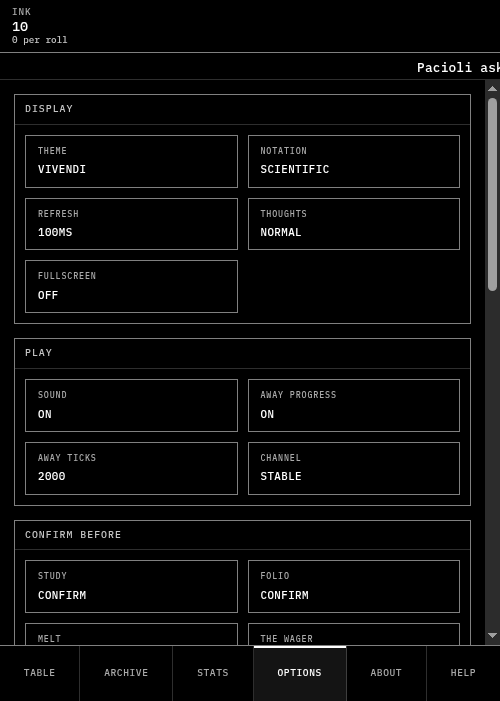
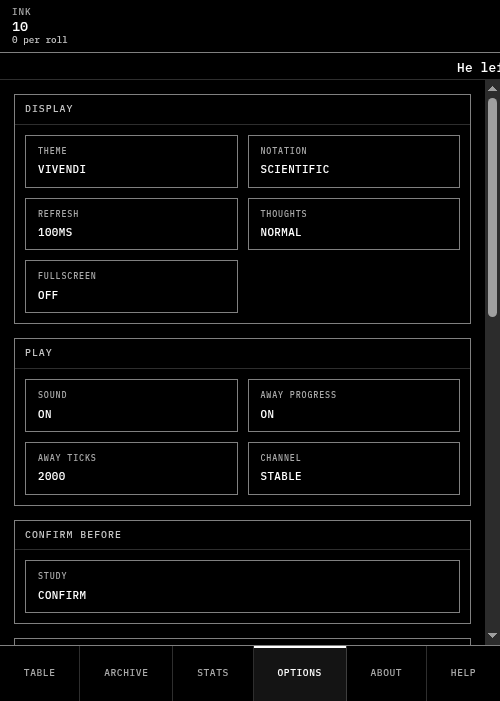
the settings screen stops naming what you have not met, and two geometry fixes
CONFIRM BEFORE listed all eight switches on a fresh save: folios, melting, the
Wager, challenges, chips and breaking the Wager. Six systems named on the
settings screen, sitting next to an archive and a help section that are gated
line by line. A setting for an action you cannot take is a spoiler wearing a
toggle.

Each one waits for the thing it guards now, on the same tests the help section
already uses. STUDY has none, because a study is on the table from the first
second. Hidden rather than disabled: a greyed-out switch still names its
action. test:spoilers checks the seven by name on a fresh save.

The Vesica Piscis was drawing sub-pixel lines. Its strokes scaled with the
viewBox, and it draws a 120 unit box into 74 CSS pixels, so its 1px circles
came out at 0.62px: thinner than every other line in a UI whose whole visual
rule is 1px borders. Both figures set vector-effect on the shapes themselves
now, and the two circles go from half opacity to 0.78 so they match the lens
they make.

And Metatron's Cube was clipped top and bottom. The figure is exactly ten radii
tall, because a centre sits four out along the vertical bearing and carries its
own circle on top of that, and it is only 8.93 wide since the widest centres
are at 4r*cos(30). The viewBox was ten radii square, so the top and bottom
circles landed on the edge and lost the outer half of their stroke to it. That
is why they read as chopped and thinner than the other eleven. A radius of
[…]

diff --git a/src/ui/options.ts b/src/ui/options.ts
@@ -20,6 +20,9 @@ import {
 } from '../durability'
 import { SLOT_COUNT, currentSlot, slotSummary } from '../save'
 import { CONFIRM_KEYS } from './confirm'
+import { WAGER_AT } from '../game/balance'
+import { isUnlocked } from '../game/autobuyers'
+import { WAGER_AUTOBUYER } from '../game/breaks'
 import { formatTime } from '../format'
 
 /**
@@ -94,8 +97,26 @@ function cycler<T>(
   }
 }
 
+/**
+ * When each confirmation is worth offering, which is when its action exists.
+ *
+ * The tests are the same ones the help section and the archive already use, so
+ * a switch appears on the screen at the moment the thing it guards does. STUDY
+ * has none because the study button is on the table from the first second.
+ */
+const CONFIRM_WHEN: Partial<Record<string, (s: GameState) => boolean>> = {
+  folio: (s) => s.folios > 0 || s.wagers > 0 || (s.stats.foliosEver ?? 0) > 0,
+  melt: (s) => (s.tarot?.death ?? 0) > 0,
+  wager: (s) => s.wagers > 0 || s.inkThisWager.gte(WAGER_AT.div(1e60)),
+  enterChallenge: (s) => s.wagers > 0,
+  exitChallenge: (s) => s.wagers > 0,
+  upgrade: (s) => s.wagers > 0,
+  break: (s) => s.broke || isUnlocked(s, WAGER_AUTOBUYER),
+}
+
 export function optionsPane(): Pane {
   const cycles: Cycle[] = []
+  const confirmGates: { root: HTMLElement; when: (s: GameState) => boolean }[] = []
   let fullCycle: Cycle
   let tickCycle: Cycle
   /** The last state update() saw, so paintTheme can resync outside the loop. */
@@ -206,14 +227,23 @@ export function optionsPane(): Pane {
 
       // Their own group, as they were their own section before. Every one of
       // them guards something that cannot be undone.
+      //
+      // And each one waits for the thing it guards. Eight switches on a fresh
+      // save named folios, melting, the Wager, challenges, chips and breaking
+      // the Wager: six systems a player ten minutes in has not met, listed on
+      // the settings screen where the archive and the help section are so
+      // carefully gated. A setting for an action you cannot take is a spoiler
+      // wearing a toggle.
       const ask = group('CONFIRM BEFORE')
       for (const c of CONFIRM_KEYS) {
-        ask(cycler(
+        const cycle = ask(cycler(
           c.label.toUpperCase(),
           [{ id: true, label: 'CONFIRM' }, { id: false, label: 'STRAIGHT' }],
           (s) => s.options.confirms[c.key] !== false,
           (on) => actions.setConfirm(c.key, on),
         ))
+        const when = CONFIRM_WHEN[c.key]
+        if (when) confirmGates.push({ root: cycle.root, when })
       }
 
       const save = el('div', 'section')
@@ -502,6 +532,9 @@ export function optionsPane(): Pane {
     update(s: GameState) {
       shown = s
       for (const c of cycles) c.sync(s)
+      // Hidden rather than disabled: a greyed-out switch still names its
+      // action.
+      for (const g of confirmGates) g.root.hidden = !g.when(s)
       // The tick count only means anything while away progress is on.
       tickCycle.root.disabled = !s.options.offline
     },

diff --git a/src/ui/geometry.ts b/src/ui/geometry.ts
@@ -23,6 +23,7 @@ function svg(view: number): SVGSVGElement {
 
 function line(a: [number, number], b: [number, number], opacity: number): SVGLineElement {
   const n = document.createElementNS(NS, 'line')
+  n.setAttribute('vector-effect', 'non-scaling-stroke')
   n.setAttribute('x1', a[0].toFixed(2))
   n.setAttribute('y1', a[1].toFixed(2))
   n.setAttribute('x2', b[0].toFixed(2))
@@ -34,6 +35,7 @@ function line(a: [number, number], b: [number, number], opacity: number): SVGLin
 
 function circle(c: [number, number], r: number, opacity: number): SVGCircleElement {
   const n = document.createElementNS(NS, 'circle')
+  n.setAttribute('vector-effect', 'non-scaling-stroke')
   n.setAttribute('cx', c[0].toFixed(2))
   n.setAttribute('cy', c[1].toFixed(2))
   n.setAttribute('r', r.toFixed(2))
@@ -70,8 +72,13 @@ export function metatron(size = 240): SVGSVGElement {
   const root = svg(size)
   root.classList.add('geo', 'geo-metatron')
   const mid = size / 2
-  // The figure spans four radii of centre offset plus one of circle, each way.
-  const r = size / 10
+  // The figure is ten radii tall: a centre sits four out along the vertical
+  // bearing and carries its own circle on top of that. It is only 8.93 wide,
+  // because the widest centres sit at 4r*cos(30). At r = size/10 the top and
+  // bottom circles landed exactly on the edge of the viewBox and lost the
+  // outer half of their stroke to it, which reads as chopped and thinner than
+  // the other eleven. A radius of size/11 leaves half a radius of air.
+  const r = size / 11
   const centres: [number, number][] = []
   for (const ring of [2, 4]) {
     for (let i = 0; i < 6; i++) {
@@ -154,10 +161,11 @@ export function vesica(w = 200): Vesica {
   root.appendChild(fill)
 
   for (const c of [left, right]) {
-    const n = circle(c, r, 0.5)
+    const n = circle(c, r, 0.78)
     root.appendChild(n)
   }
   const lens = document.createElementNS(NS, 'path')
+  lens.setAttribute('vector-effect', 'non-scaling-stroke')
   lens.setAttribute('d', lensPath)
   lens.setAttribute('stroke-width', '1')
   lens.setAttribute('opacity', '0.9')
